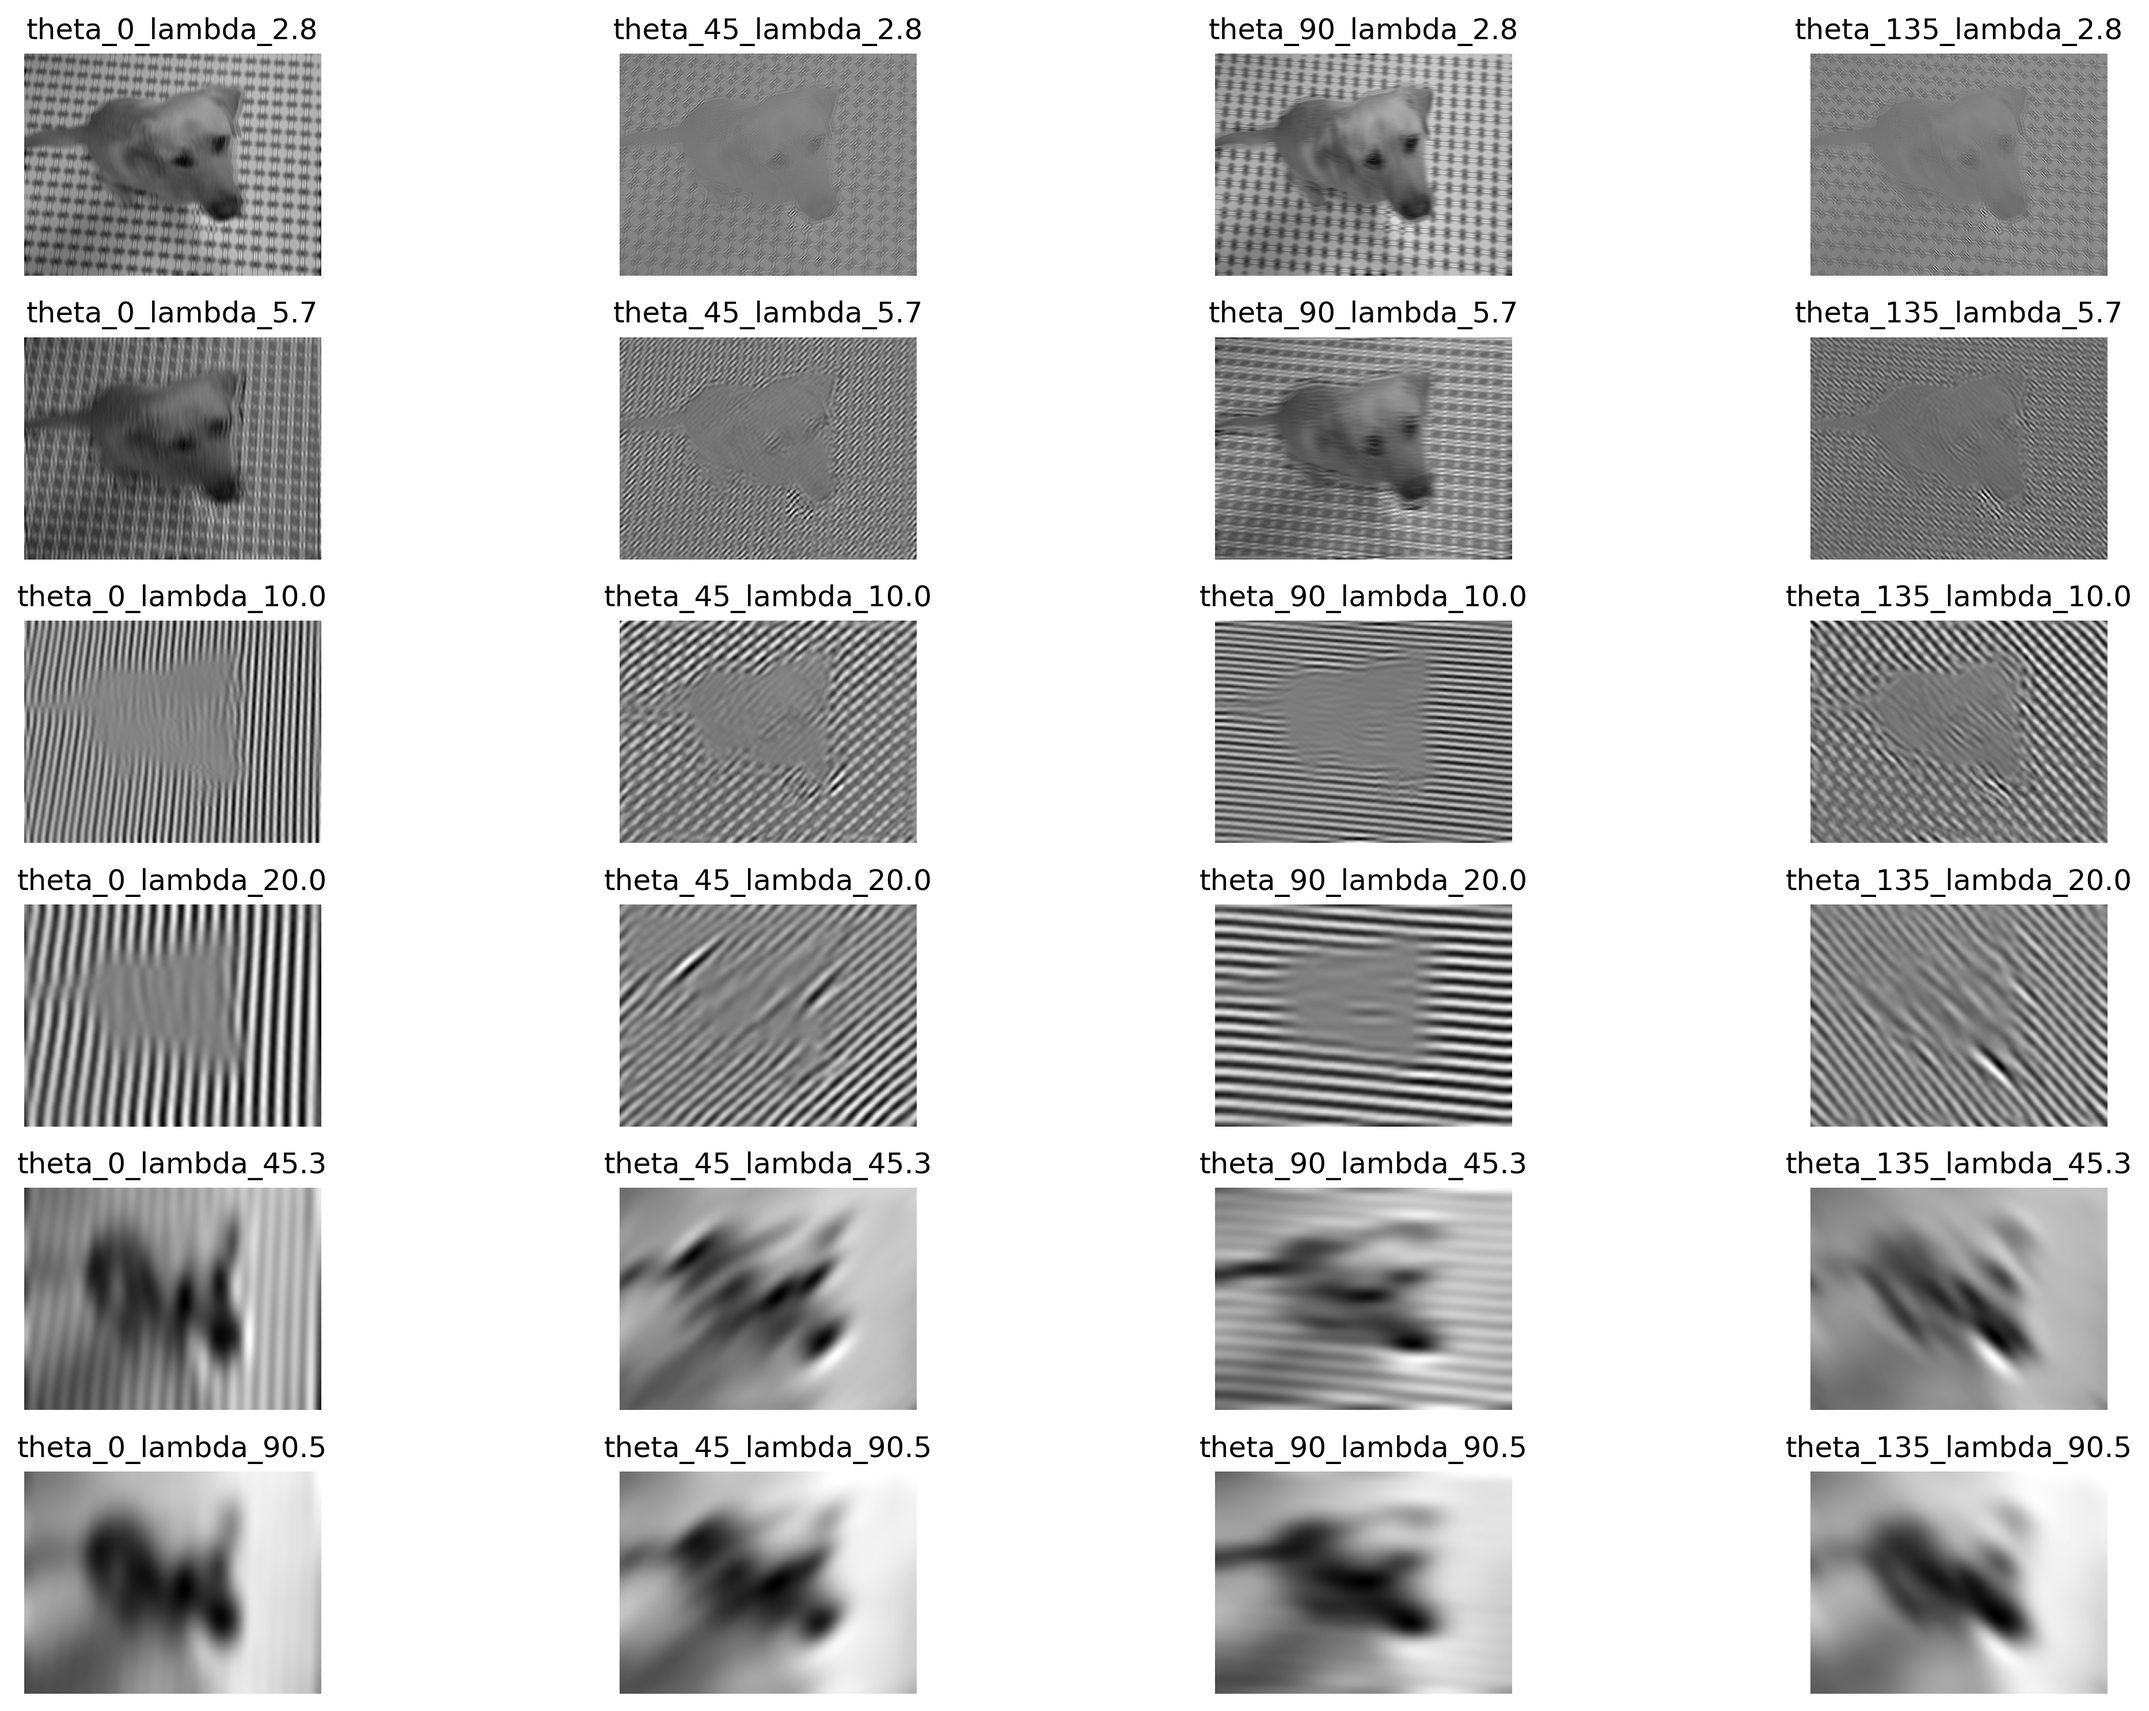
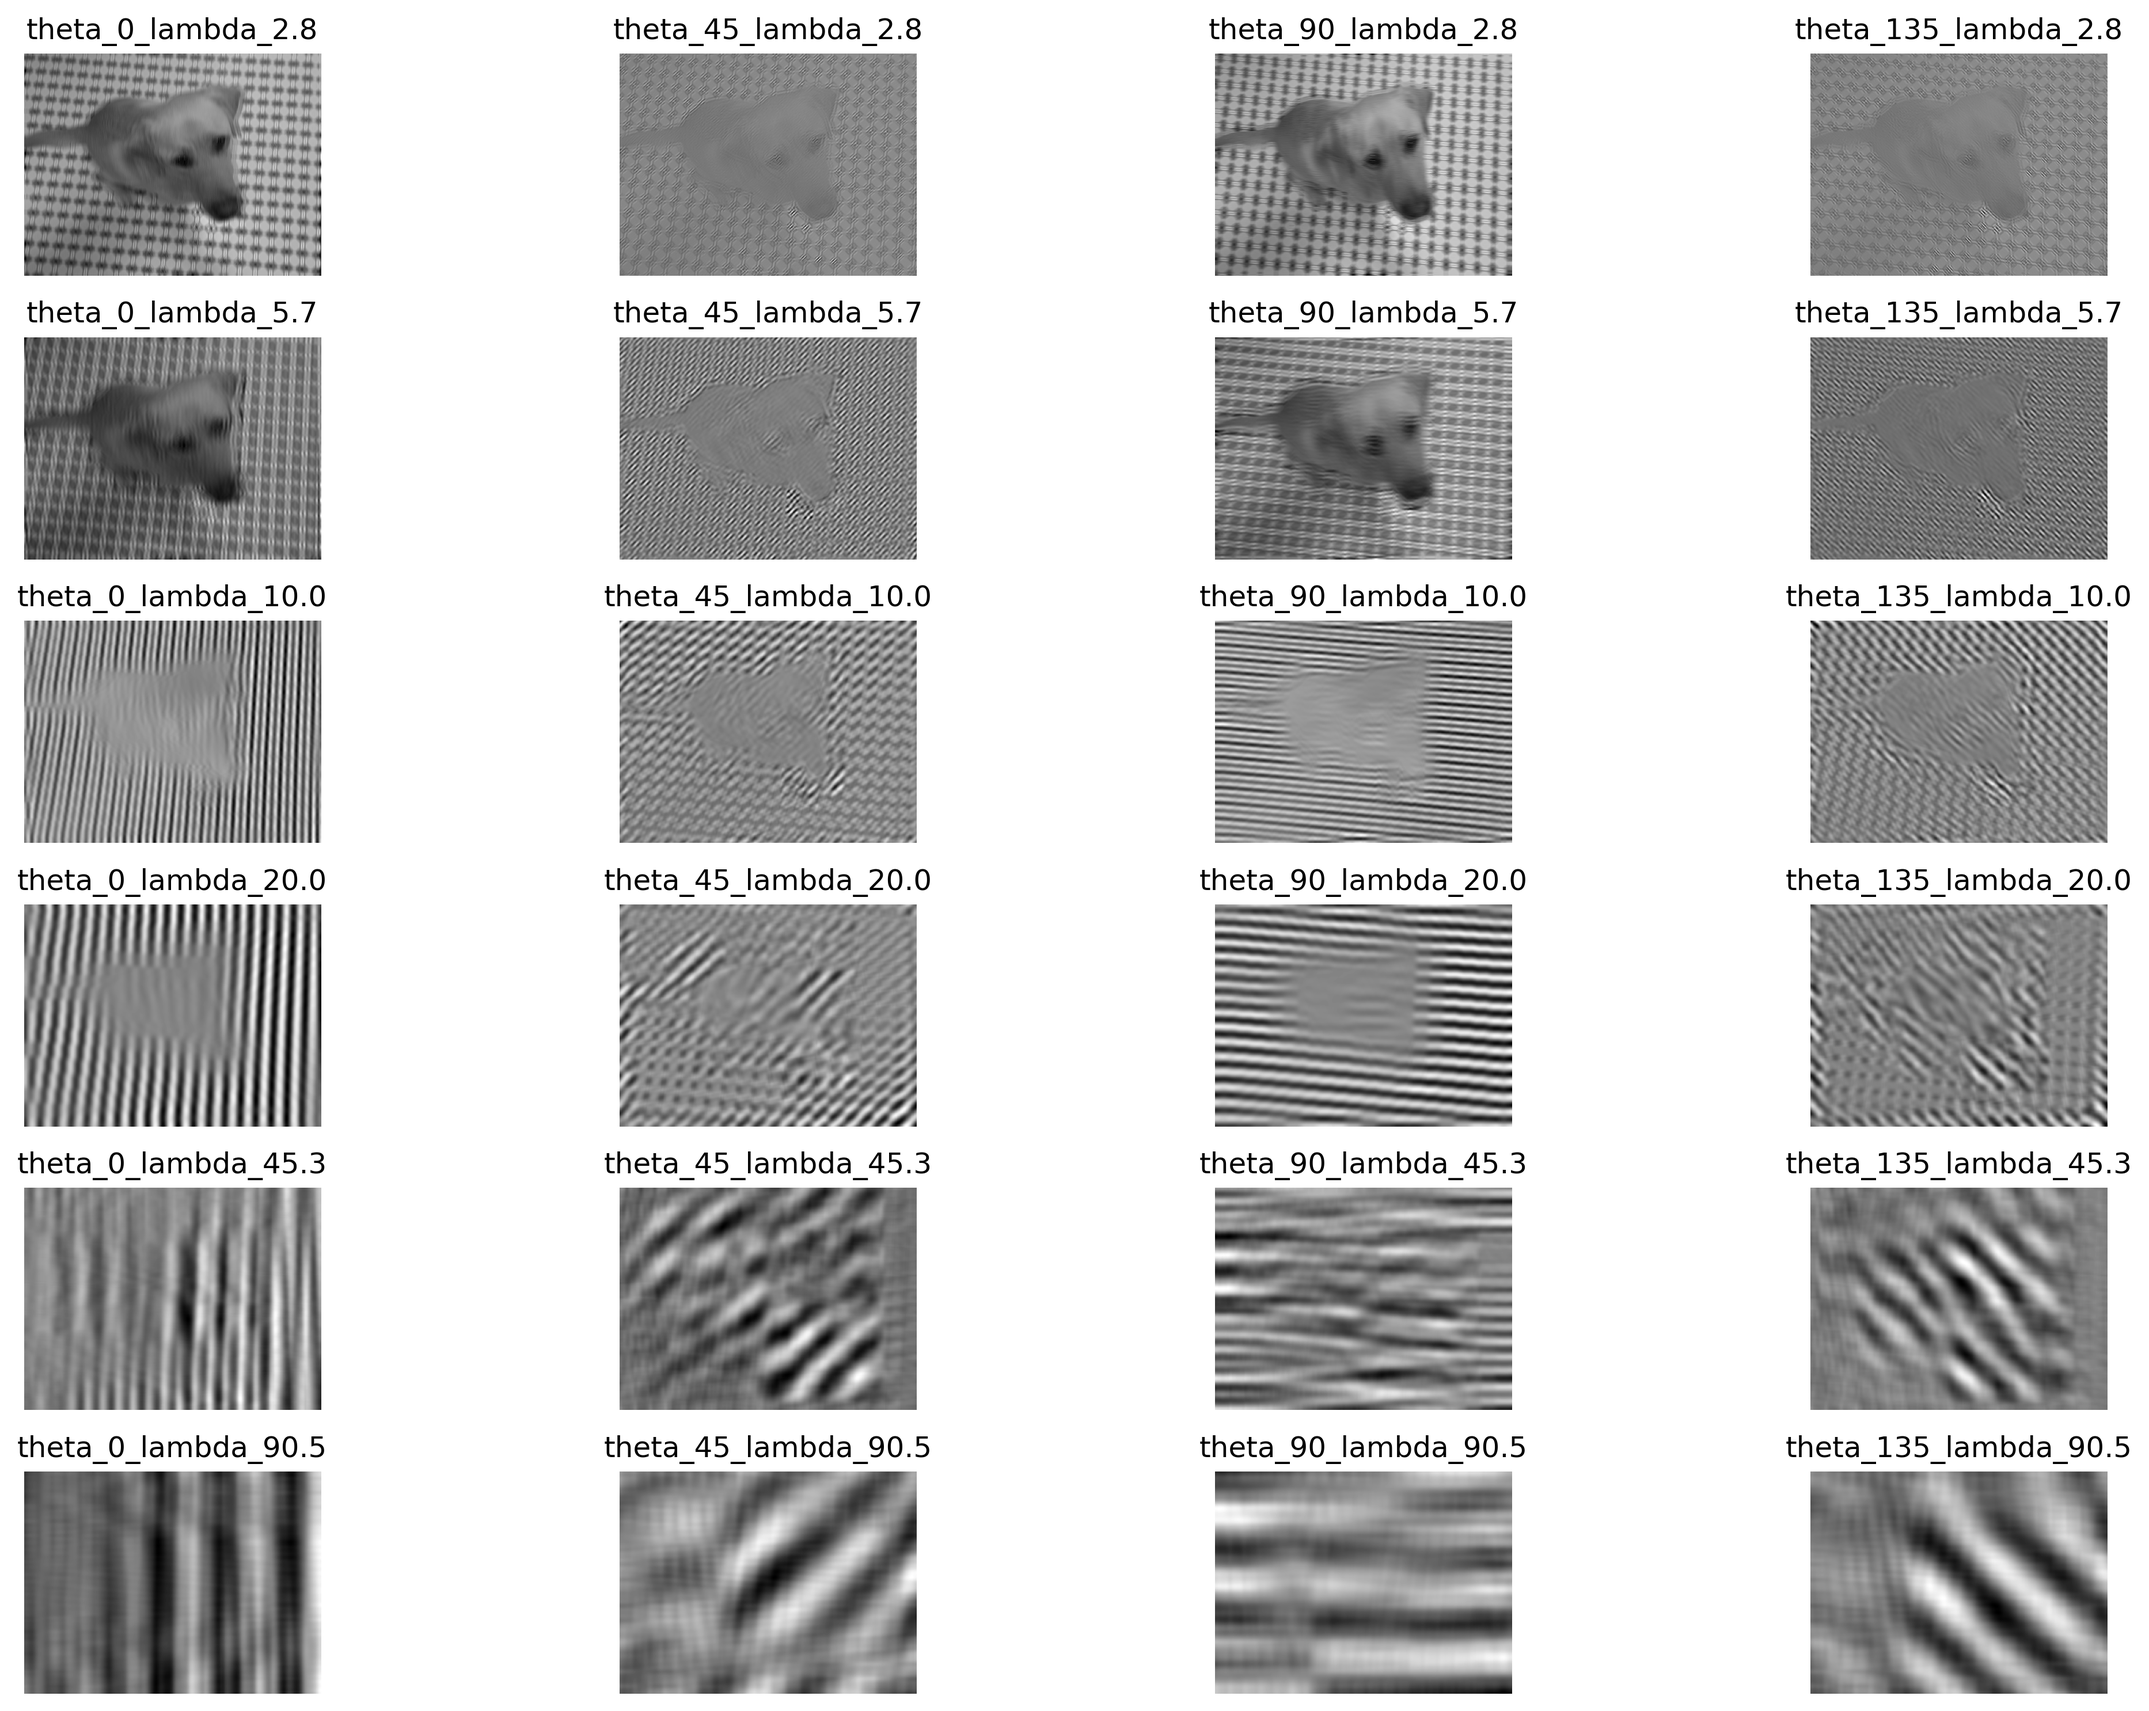
versuch zu dynam. sigma

diff --git a/src/easyExamples.py b/src/easyExamples.py
@@ -53,7 +53,7 @@ orientations = [0, np.pi/4, np.pi/2, 3*np.pi/4]
 
 wavelengths = struktur_frequenzen[image_name]
 k_sigma = 12.0                                 # Faktor für Standardabweichung
-
+b = 0.01                                        # Bandbreite 
 ######### Alternativ, automatische Festlegung von lambda 
 # Min: 4/sqrt(2) = 2*sqrt(2) 
 #       -> ein Pixel hat Hypotenuse sqrt(2), 2 zueinander Diagonale Pixel ergeben doppelte Distanz
@@ -74,15 +74,14 @@ wavelengths = rep_or_ins(wavelengths,wavelengths2,3)
 
 if variable_kernel:
     ksize = 3*np.array(wavelengths).astype(int)
-    # entferne alle Kernelgrößen die größer als die kleinere Bilddimension sind
-    # ksize = ksize[ksize < min(width,height)] # damit würde die innere Schleife kaputt gehen
 
 filterbank = {}
 filtered_img_bank = []
-# loop über orientierungen, dann loop über wellenlängen
+# loop über wellenlängen, dann loop über orientierungen
 for i, lambd in enumerate(wavelengths):
-    if isinstance(ksize,np.ndarray):
+    if variable_kernel:
         kernel_size = (ksize[i],ksize[i])
+        k_sigma = lambd/np.pi * np.sqrt(np.log(2)/2) * (2**b + 1)/(2**b - 1) # experimentell, für vernünftige Ergebnisse auskommentieren
     else:
         kernel_size = (ksize,ksize)
     for theta in orientations:
